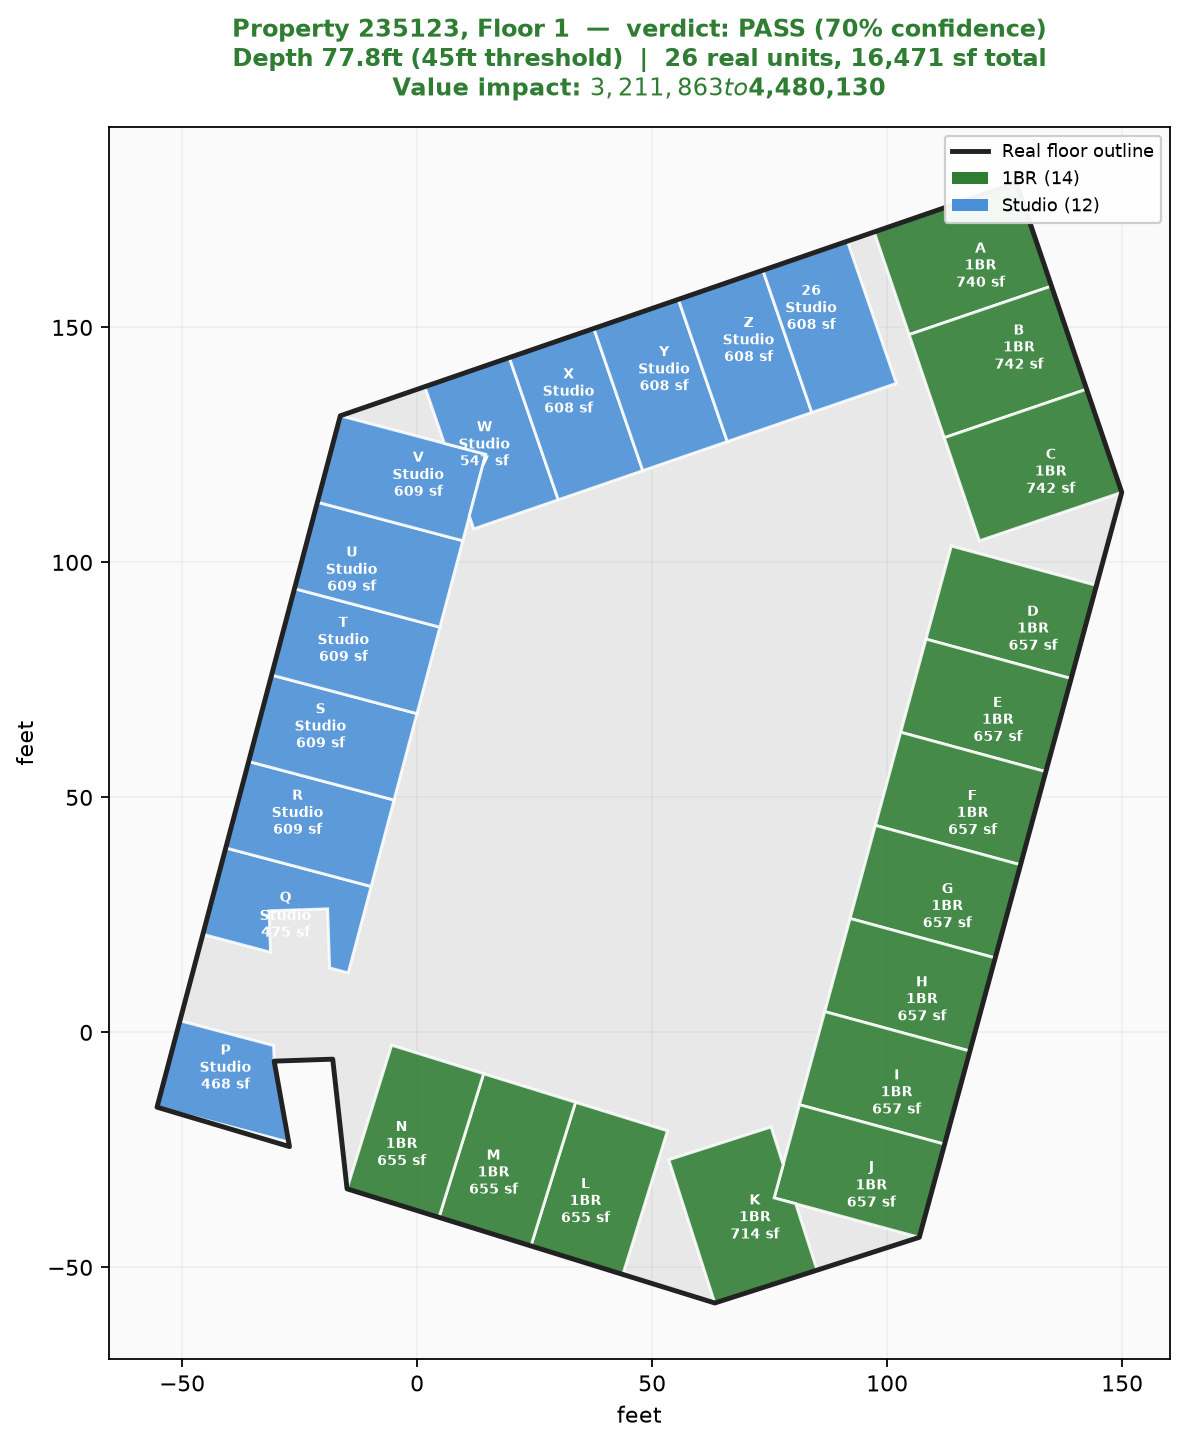
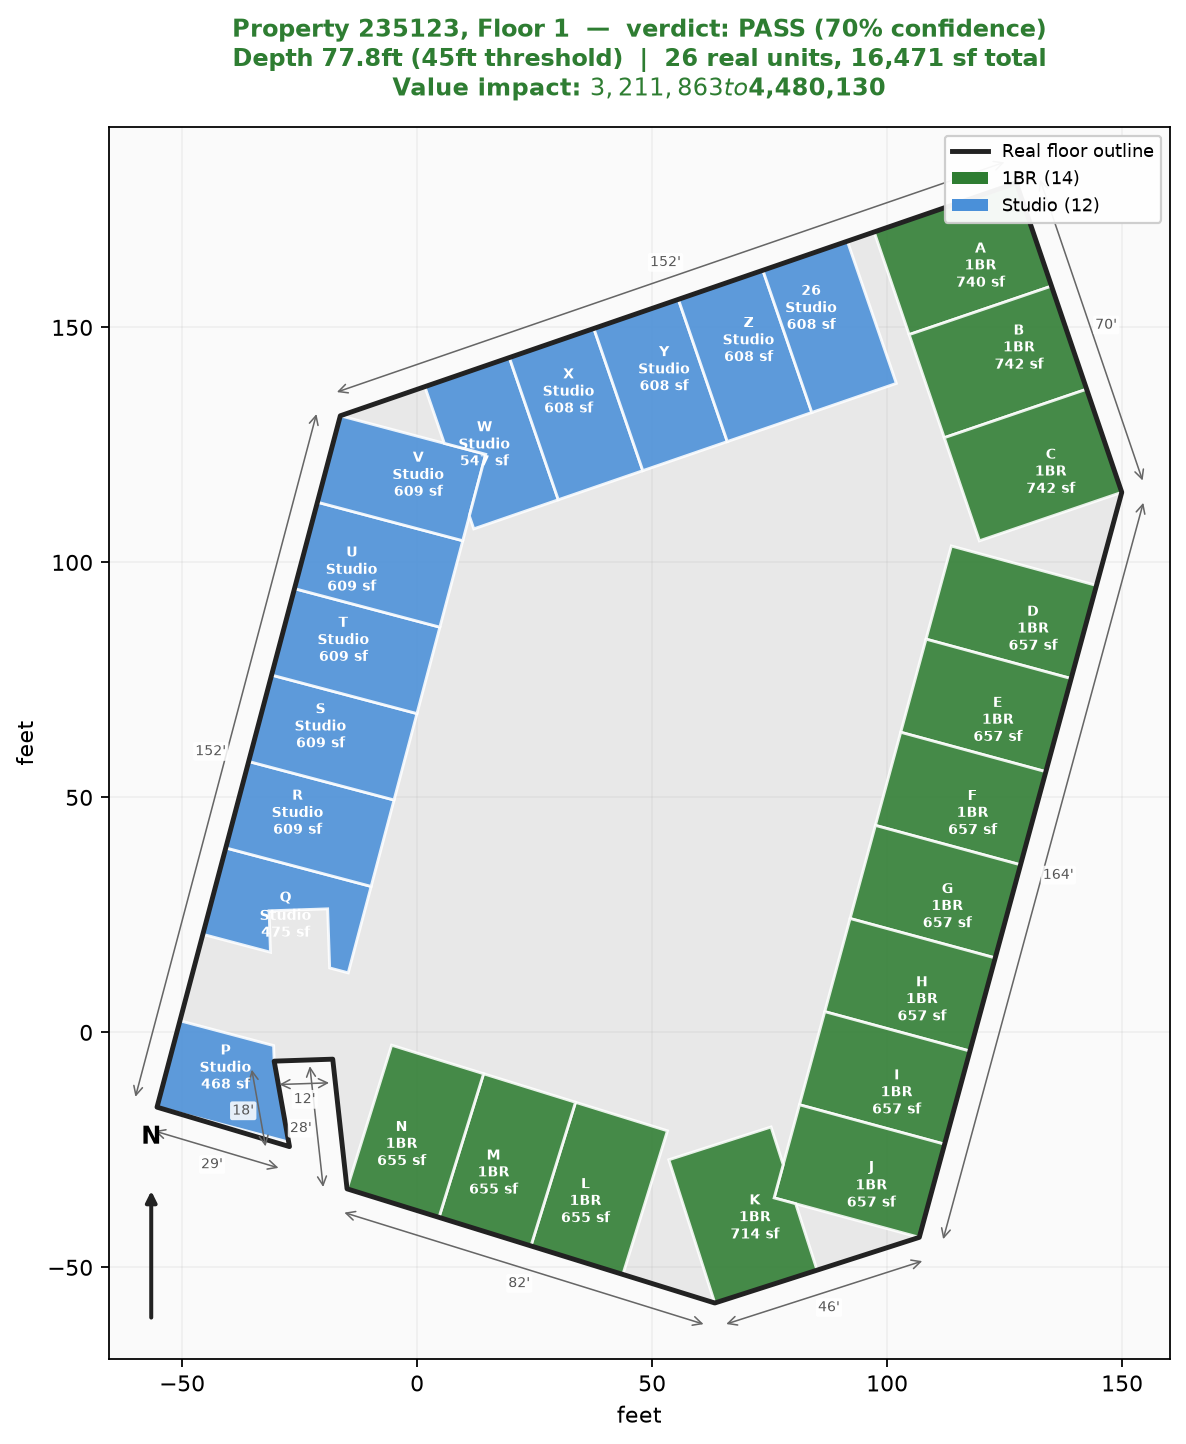
Add real CAD-style dimension lines + north arrow; add Two Bering Park (marginal example)
- Every wall segment on the render now shows its real length in feet
  (CAD convention: offset dimension line with tick marks), computed
  directly from the real smoothed footprint already being drawn -
  no new data, just making the existing real edge lengths visible,
  which also visually proves the outline isn't distorted (uniform
  scaling preserves angles/proportions - verified directly).
- Real north arrow: this projection's +y axis IS true north
  (equirectangular, same convention Vexcel's own quickstart uses),
  confirmed before adding it, not decorative. First attempt placed it
  in data coordinates and it silently rendered outside the
  auto-scaled view - fixed using axes-fraction coordinates so it's
  always visible in the same corner regardless of building shape.
- Added Two Bering Park (800 Bering Dr) to the permanent BUILDINGS
  list - a real MARGINAL classification case (geometry escalate, 47%
  viable fraction, positive real value) specifically to show the
  classifier's actual range, not just more FEASIBLE examples.

Final 5 featured buildings, chosen for real classification variety:
Woodway Center (feasible, 70%), 7900 Fannin (feasible, 70%),
TC Energy Center (feasible, 52%), Two Bering Park (marginal),
Williams Tower (not_feasible).

Full regression: 15 buildings render cleanly, no verdict regressions.

diff --git a/demo/render_floor.py b/demo/render_floor.py
@@ -81,6 +81,48 @@ def render(property_id: int, floor_name: int, vexcel_response: dict, query_lat: 
     ax.plot(fx, fy, color="#222", linewidth=2.2, zorder=3, label="Real floor outline (Vexcel, scaled to real area)")
     ax.fill(fx, fy, color="#e8e8e8", zorder=0)
 
+    # Real architectural dimension lines, CAD convention: each wall segment's
+    # ACTUAL length (in feet, from the real smoothed footprint - not an
+    # estimate), offset a short distance outward from the wall with tick
+    # marks at each end, the way a real floor plan dimensions its exterior
+    # walls. Confirms visually, not just by claim, that the outline is a
+    # faithful real shape: every number here is the real edge length of the
+    # polygon already being drawn, nothing invented for the annotation.
+    cx_all = sum(fx) / len(fx)
+    cy_all = sum(fy) / len(fy)
+    dim_offset_ft = max(max(fx) - min(fx), max(fy) - min(fy)) * 0.035
+    for i in range(len(footprint_ft) - 1):
+        (x1, y1), (x2, y2) = footprint_ft[i], footprint_ft[i + 1]
+        seg_len = ((x2 - x1) ** 2 + (y2 - y1) ** 2) ** 0.5
+        if seg_len < 5:  # skip near-zero-length segments (duplicate closing vertex)
+            continue
+        mx, my = (x1 + x2) / 2, (y1 + y2) / 2
+        # Outward normal: away from the footprint's own centroid
+        nx, ny = -(y2 - y1) / seg_len, (x2 - x1) / seg_len
+        out_vec = (mx - cx_all, my - cy_all)
+        if nx * out_vec[0] + ny * out_vec[1] < 0:
+            nx, ny = -nx, -ny
+        lx, ly = mx + nx * dim_offset_ft, my + ny * dim_offset_ft
+        ax.annotate(
+            "", xy=(x1 + nx * dim_offset_ft * 0.6, y1 + ny * dim_offset_ft * 0.6),
+            xytext=(x2 + nx * dim_offset_ft * 0.6, y2 + ny * dim_offset_ft * 0.6),
+            arrowprops=dict(arrowstyle="<->", color="#666", lw=0.7), zorder=3,
+        )
+        ax.text(lx, ly, f"{seg_len:.0f}'", fontsize=6.5, color="#555", ha="center", va="center",
+                zorder=3, bbox=dict(boxstyle="round,pad=0.15", facecolor="white", edgecolor="none", alpha=0.85))
+
+    # North arrow - geometrically real, not decorative: this projection's
+    # +y axis IS true north (equirectangular, same convention as Vexcel's
+    # own quickstart script), so pointing straight up is accurate at
+    # building scale, not just a design flourish. Placed in axes-fraction
+    # coordinates (always the same corner, always inside the plot) rather
+    # than data coordinates - those landed outside the auto-scaled view and
+    # the arrow silently never appeared.
+    ax.annotate("", xy=(0.04, 0.14), xytext=(0.04, 0.03), xycoords="axes fraction",
+                arrowprops=dict(arrowstyle="-|>", color="#222", lw=1.8), zorder=6)
+    ax.text(0.04, 0.17, "N", transform=ax.transAxes, fontsize=11, fontweight="bold",
+            ha="center", va="bottom", zorder=6)
+
     # Real column-bay-depth line, when CoStar has that structural field. This
     # is the ONLY real structural spacing datum available (confirmed: no
     # companion bay-width/column-grid field exists anywhere in the kit's
@@ -257,6 +299,16 @@ BUILDINGS = [
         "name": "1113 Vine St", "property_id": 235123, "floor_name": 1,
         "vexcel_file": "property_29.768557_-95.357148.json", "query_lat": 29.768557, "query_lon": -95.357148,
         "real_floor_area_sqft": 33000.0, "real_column_depth_ft": None,
+    },
+    # Added specifically for classification variety: a real MARGINAL case
+    # (geometry escalate, 47% viable fraction - below the 50% pass bar but
+    # above the 20% fail bar - yet real positive value) rather than another
+    # FEASIBLE result. The classifier is only convincing if it can say
+    # something other than yes.
+    {
+        "name": "Two Bering Park", "property_id": 239921, "floor_name": 1,
+        "vexcel_file": "property_29.7578818_-95.4806279.json", "query_lat": 29.7578818, "query_lon": -95.4806279,
+        "real_floor_area_sqft": 44736.0, "real_column_depth_ft": None,
     },
 ]
 
